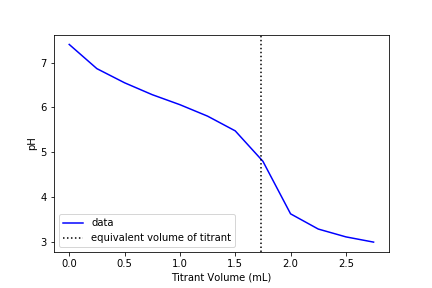
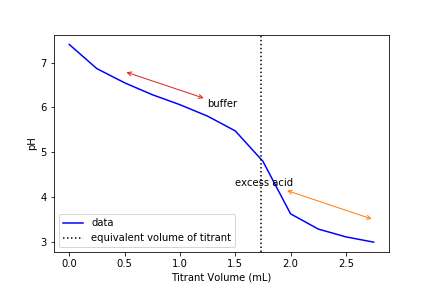
asd

diff --git a/Lab3/team10_lab3.md b/Lab3/team10_lab3.md
@@ -44,12 +44,14 @@ from scipy import stats
 Gran_data_0 = 'https://raw.githubusercontent.com/lw583/CEE4530/master/Lab3/0_minute_sample.xls'
 V_titrant, pH, V_Sample, Normality_Titrant, V_equivalent, ANC = epa.Gran(Gran_data_0)
 
+plt.subplots()
 plt.plot(V_titrant,pH,'b-')
 plt.axvline(x=V_equivalent.magnitude, color='k', linestyle='dotted')
 plt.xlabel('Titrant Volume (mL)')
 plt.ylabel('pH')
+plt.annotate(s='buffer', xy=(0.5,6.8), xytext=(1.25,6), arrowprops=dict(color='tab:red', arrowstyle='<->'))
+plt.annotate(s='excess', xy=(2.75,3.5), xytext=(1.5,4.25), arrowprops=dict(color='tab:orange', arrowstyle='<->'))
 plt.legend(['data', 'equivalent volume of titrant'])
-ax.annotate('buffer region', xy=(0.25,7), xytext=(1.25,7),arrowprops={'arrowstyle': '<->'}), va='center')
 
 plt.savefig('Lab3/Titration_0.png')
 plt.show()
